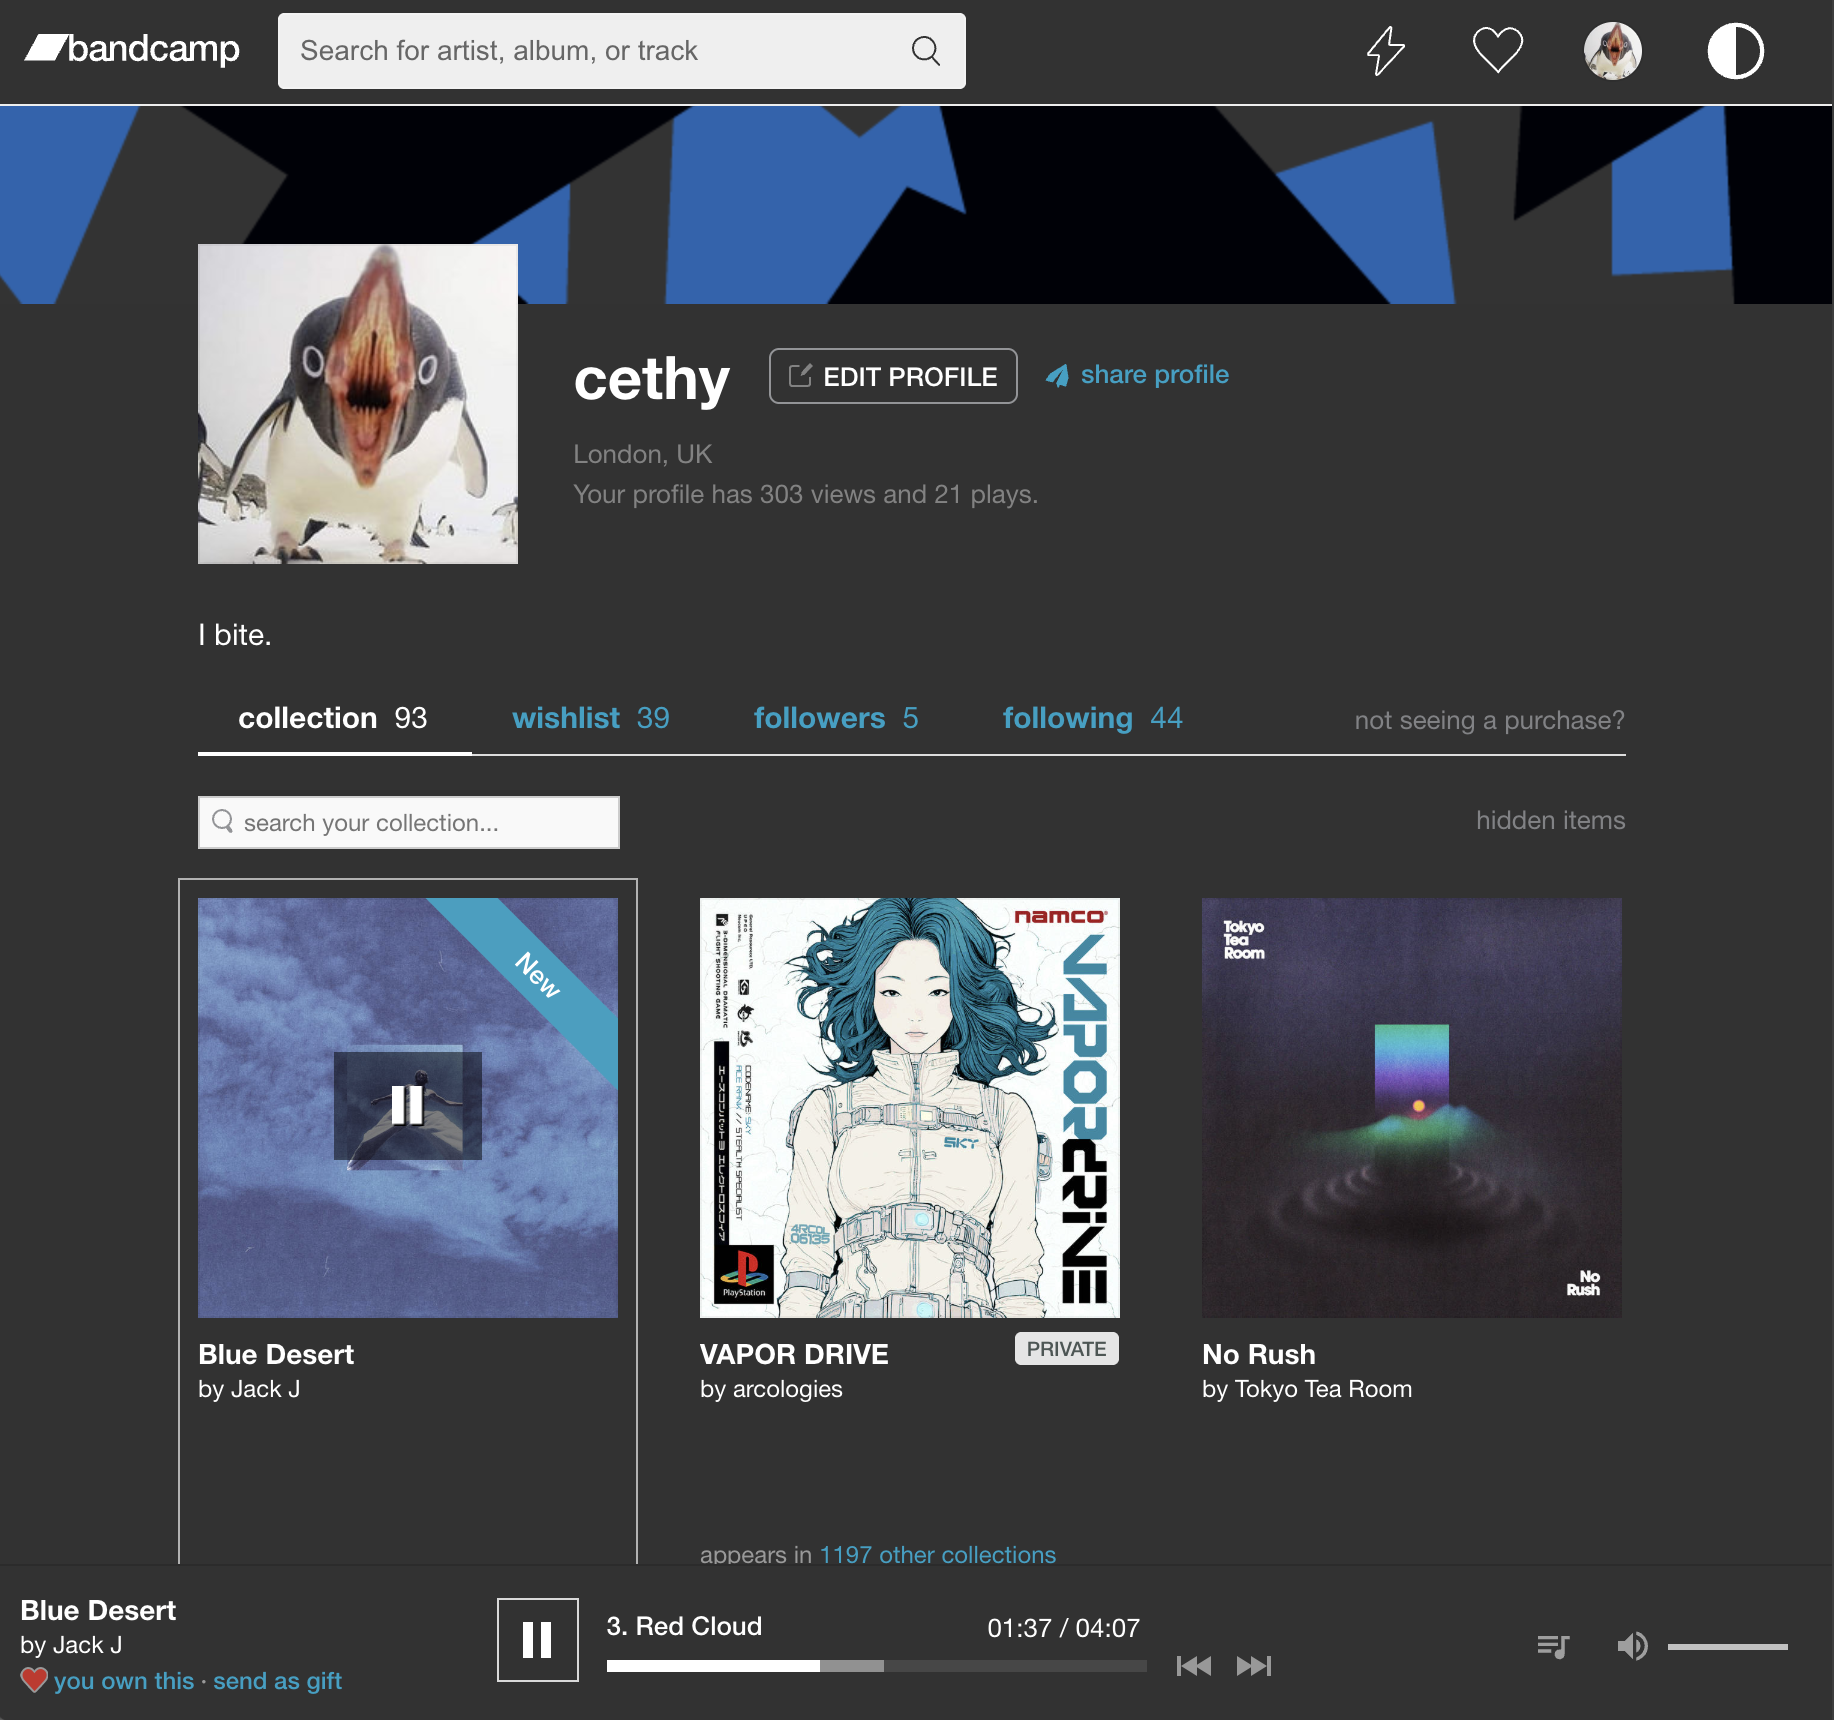
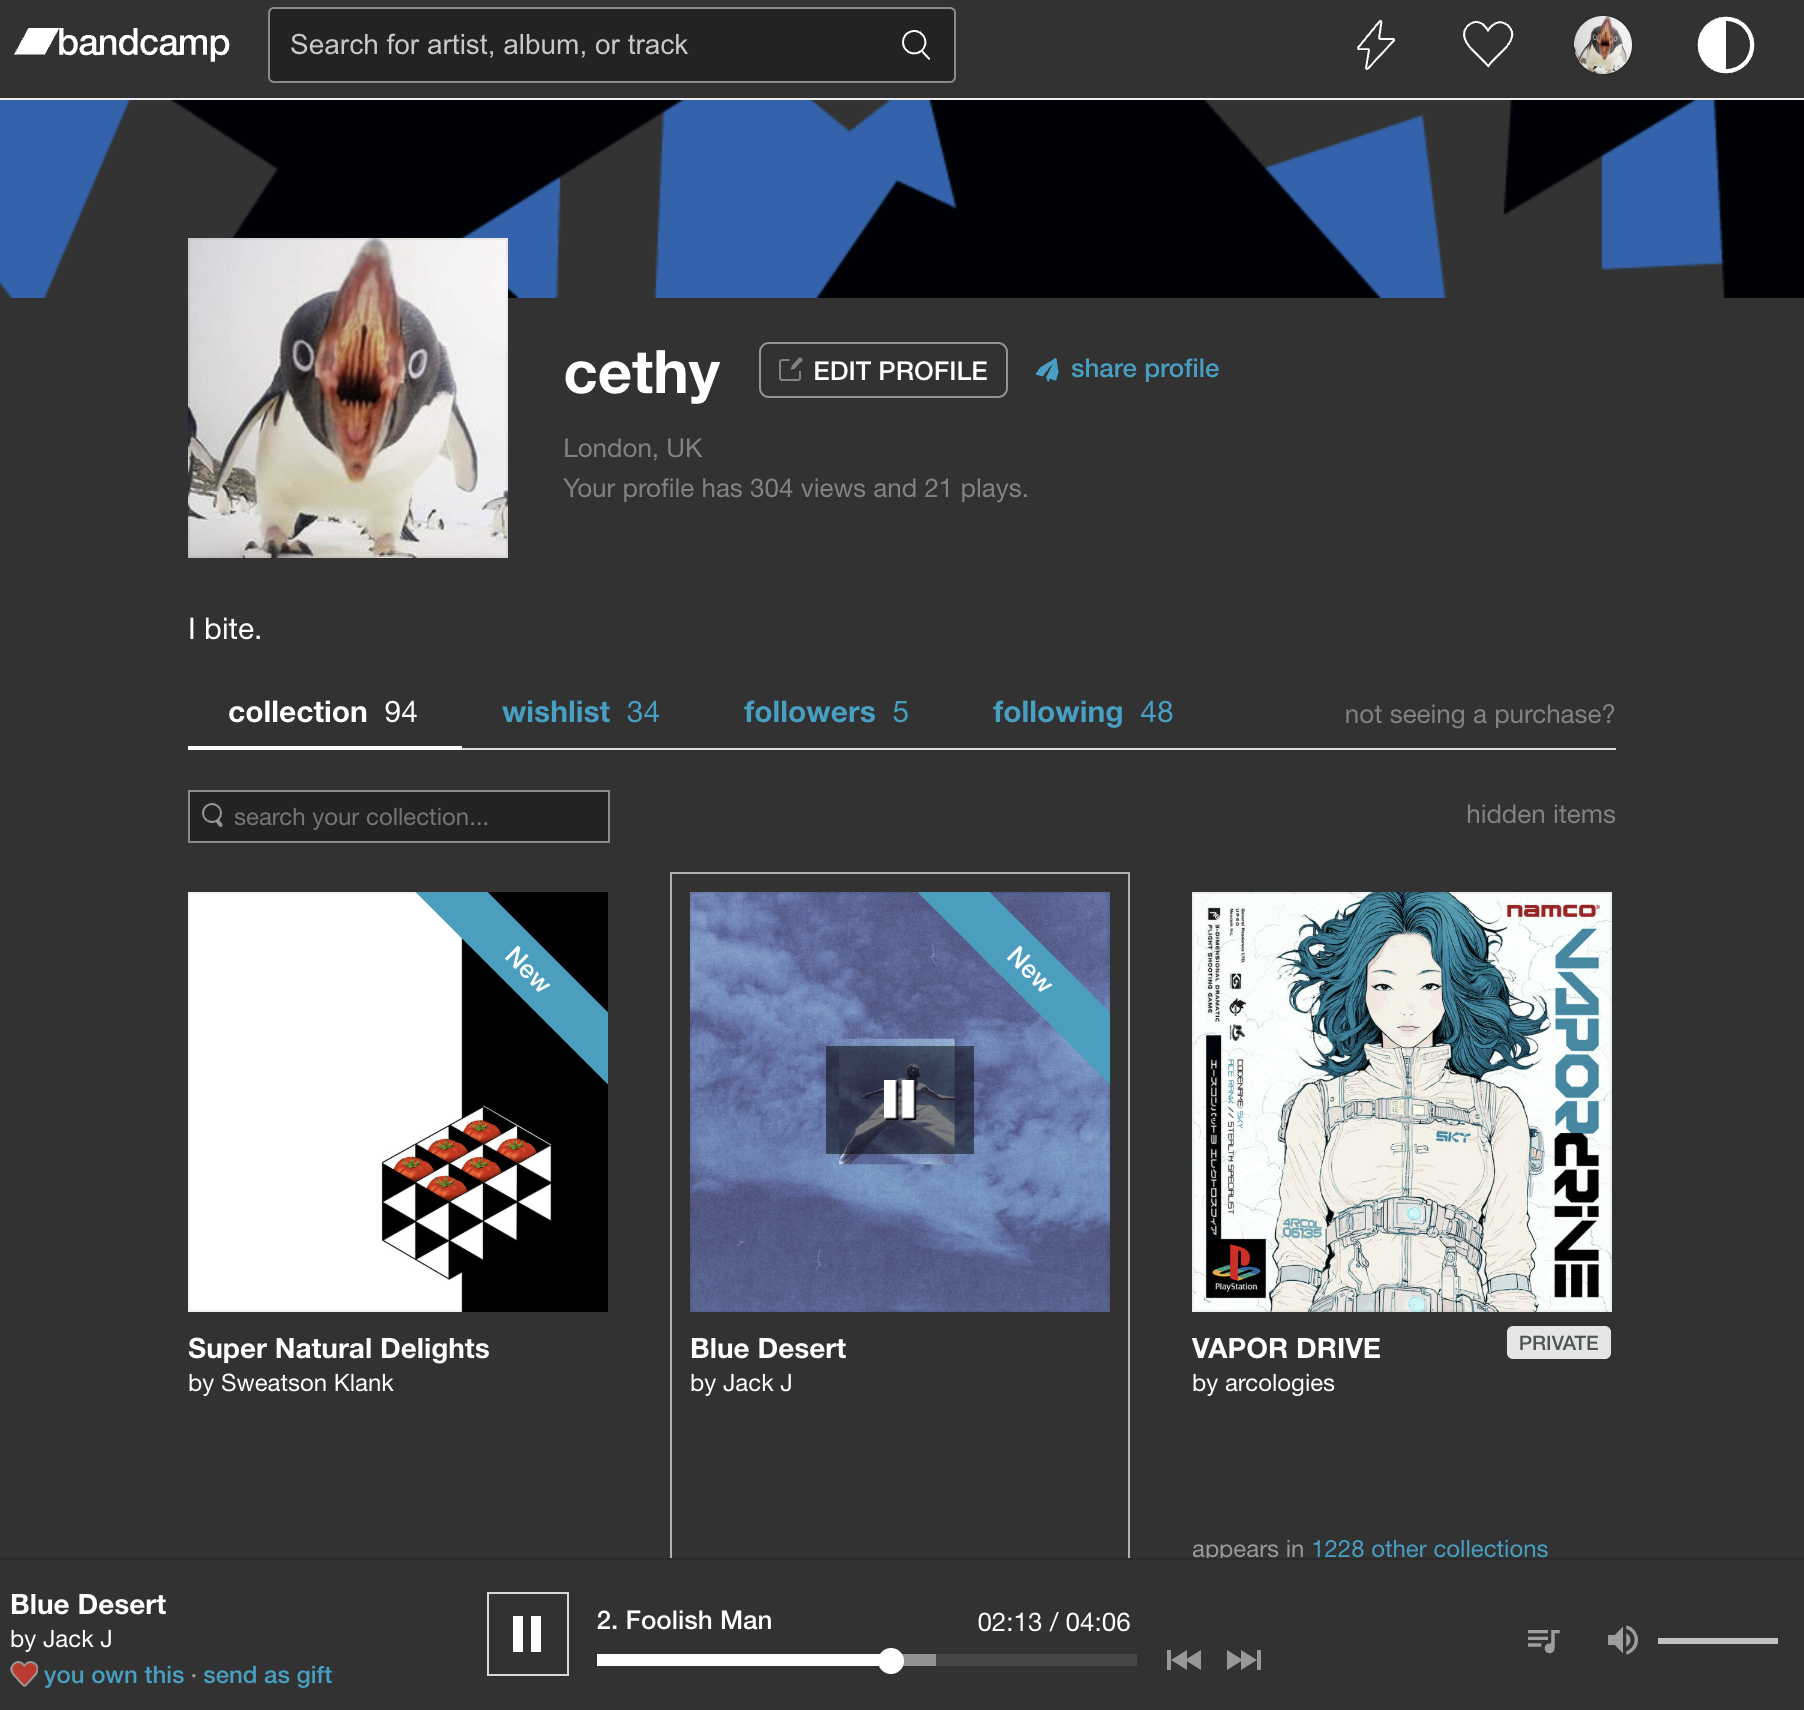
CHANGED: v1.1 - update inputs styling

diff --git a/bandcamp.com_profile_DarkMode.js b/bandcamp.com_profile_DarkMode.js
@@ -3,7 +3,7 @@
 // @namespace   cw.bandcamp.com_profile_DarkMode
 // @match       https://bandcamp.com/*
 // @grant       none
-// @version     1.0
+// @version     1.1
 // @author      Charles
 // @homepage    https://github.com/Cethy/userscript-bandcamp-darkmode
 // @description Add switchable dark mode styling + auto-toggle if computer setup for preferred dark color scheme, but only on bandcamp profile pages !
@@ -90,8 +90,9 @@ body.dark-mode .fan-bio .edit-profile > a {
   color: #fff;
 }
 
+body.dark-mode form.menubar-search button.menubar-search-icon,
 body.dark-mode #cw__toggleDarkMode svg g {
-    fill: #fff;
+  fill: #fff;
 }
 body.dark-mode .menubar-2018 .svg-icon,
 body.dark-mode .carousel-player .queue-icon,
@@ -140,8 +141,21 @@ body.dark-mode .carousel-player .vol-control {
 
 body.dark-mode .carousel-player .transport .icon.next-icon,
 body.dark-mode .carousel-player .transport .icon.prev-icon {
-    filter: invert(1)
+  filter: invert(1)
 }
+
+body.dark-mode select#following-genre-visibility,
+body.dark-mode .grids .search .search-box,
+body.dark-mode div.header-discover-2023 form.menubar-search input[type=text] {
+  background: rgba(35, 35, 35);
+  color: #fff;
+  border: 1px solid rgba(243,243,243,0.5);
+}
+body.dark-mode div.header-discover-2023 form.menubar-search input[type=text]::placeholder {
+  color: rgba(255,255,255,0.75) !important;
+}
+
+
         `;
         const style = document.createElement('style');
         style.textContent = darkStyles;
